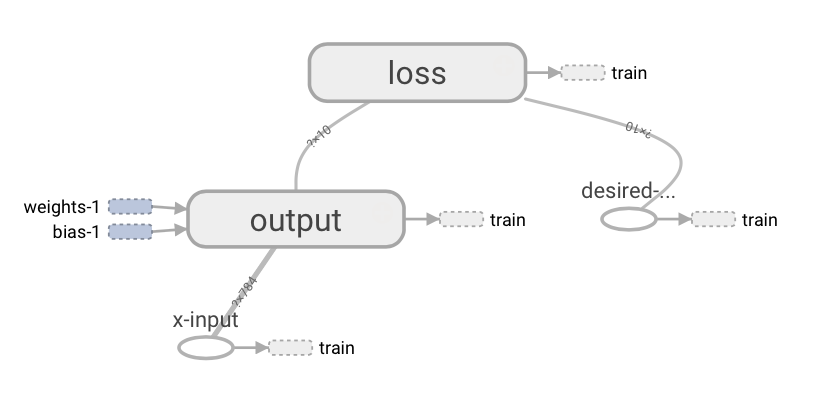
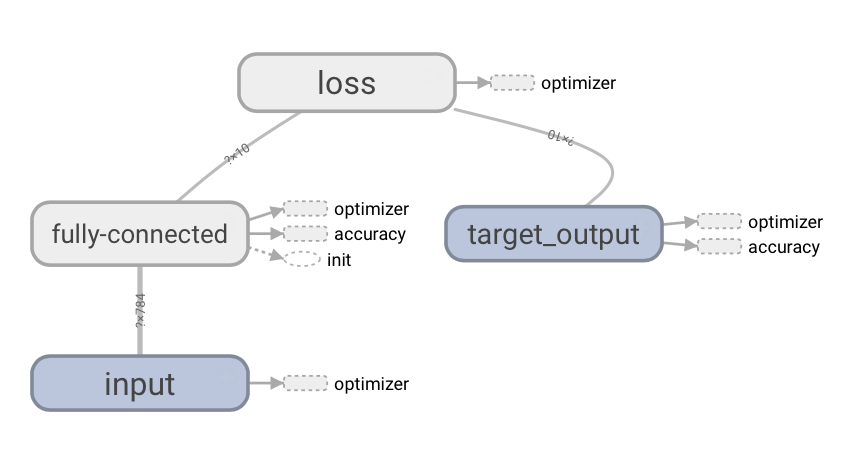
Update images and graph models

diff --git a/experiments/nn-gridworld/network.py b/experiments/nn-gridworld/network.py
@@ -1,42 +1,50 @@
-
 import tensorflow as tf
 
 class NeuralNetwork(object):
     def __init__(self, device, random_seed, input_size, hidden_l1, hidden_l2, learning_rate, optimizer):
-        self.sess = tf.InteractiveSession()
+        self.sess = tf.Session()
 
         with tf.device(device):
             # Set random seed
             tf.set_random_seed(random_seed)
 
             # Input with shape [?, input_size]
-            self.x = tf.placeholder(tf.float32, shape=[None, input_size], name='x-input')
+            with tf.name_scope('input') as scope:
+                self.x = tf.placeholder(tf.float32, shape=[None, input_size], name='x-input')
+
             # Target output with shape [?, 4]
-            self.y_ = tf.placeholder(tf.float32, shape=[None, 4], name='target-output')
+            with tf.name_scope('target_output') as scope:
+                self.y_ = tf.placeholder(tf.float32, shape=[None, 4], name='target-output')
 
-            # Hidden layer 1 weights and bias
-            W_1 = tf.Variable(tf.random_uniform([input_size, hidden_l1]), name='weights-1')
-            b_1 = tf.Variable(tf.zeros([hidden_l1]), name='bias-1')
-
-            # Hidden layer 1's output
+            # Hidden layer 1
             with tf.name_scope('hidden-layer-1') as scope:
-                out_1 = tf.nn.relu(tf.matmul(self.x, W_1) + b_1)
+                # Hidden layer 1 weights and bias
+                W_1 = tf.Variable(tf.random_uniform([input_size, hidden_l1]), name='weights-1')
+                b_1 = tf.Variable(tf.zeros([hidden_l1]), name='bias-1')
 
-            # Hidden layer 2 weights and bias 
-            W_2 = tf.Variable(tf.random_uniform([hidden_l1, hidden_l2]), name='weights-2')
-            b_2 = tf.Variable(tf.zeros([hidden_l2]), name='bias-2')
+                # Hidden layer 1's output
+                with tf.name_scope('hidden-layer-1-out') as scope:
+                    out_1 = tf.nn.relu(tf.matmul(self.x, W_1) + b_1)
 
-            # Hidden layer 2's output 
+            # Hidden layer 2
             with tf.name_scope('hidden-layer-2') as scope:
-                out_2 = tf.nn.relu(tf.matmul(out_1, W_2) + b_2)
+                # Hidden layer 2 weights and bias 
+                W_2 = tf.Variable(tf.random_uniform([hidden_l1, hidden_l2]), name='weights-2')
+                b_2 = tf.Variable(tf.zeros([hidden_l2]), name='bias-2')
 
-            # Hidden layer 3 weights and bias 
-            W_3 = tf.Variable(tf.random_uniform([hidden_l2, 4]), name='weights-3')
-            b_3 = tf.Variable(tf.zeros([4]), name='bias-3')
+                # Hidden layer 2's output 
+                with tf.name_scope('hidden-layer-2-out') as scope:
+                    out_2 = tf.nn.relu(tf.matmul(out_1, W_2) + b_2)
 
-            # Hidden layer 3's output 
+            # Ouptut layer
             with tf.name_scope('output') as scope:
-                self.y = tf.matmul(out_2, W_3) + b_3
+                # Ouptut layer weights and bias 
+                W_3 = tf.Variable(tf.random_uniform([hidden_l2, 4]), name='weights-3')
+                b_3 = tf.Variable(tf.zeros([4]), name='bias-3')
+
+                # Hidden layer 3's output 
+                with tf.name_scope('output_value') as scope:
+                    self.y = tf.matmul(out_2, W_3) + b_3
 
             # Objective function 
             with tf.name_scope('loss') as scope:
@@ -83,4 +91,4 @@ class NeuralNetwork(object):
     def get_accuracy(self, x_input, target_output):
         acc = self.sess.run(self.accuracy, feed_dict={self.x: x_input, 
                                                     self.y_: target_output})
-return acc
+        return acc

diff --git a/experiments/rnn-gridworld/network.py b/experiments/rnn-gridworld/network.py
@@ -9,13 +9,12 @@ class RecurrentNeuralNetwork(object):
             tf.set_random_seed(random_seed)
 
             # Input with shape 
-            self.x = tf.placeholder(tf.float32, shape=[sequence_length, None, input_size], name='x-input')
-            # Desired output
-            self.y_ = tf.placeholder(tf.float32, shape=[None, 4], name='target-output')
+            with tf.name_scope('input') as scope:
+                self.x = tf.placeholder(tf.float32, shape=[sequence_length, None, input_size], name='x-input')
 
-            # Weights and bias
-            W = tf.Variable(tf.random_uniform([hidden, 4]), name='weights')
-            b = tf.Variable(tf.random_uniform([4]), name='bias')
+            # Target output
+            with tf.name_scope('target_output') as scope:
+                self.y_ = tf.placeholder(tf.float32, shape=[None, 4], name='target-output')
 
             with tf.name_scope('pre-process'):
                 # Reshape input from [3, ?, input_size]
@@ -23,12 +22,21 @@ class RecurrentNeuralNetwork(object):
                 # Split input to shape [3, [?, input_size]]
                 x_2 = tf.split(0, sequence_length, x_1)
 
-            # Set up basic LSTM cell with forget_bias = 1
-            lstm_cell = tf.nn.rnn_cell.BasicLSTMCell(hidden, forget_bias=1.0, state_is_tuple=True)
-            lstm_cell = tf.nn.rnn_cell.MultiRNNCell([lstm_cell] * rnn_layers, state_is_tuple=True)
+            # RNN
+            with tf.name_scope('RNN') as scope:
+                # Weights and bias
+                W = tf.Variable(tf.random_uniform([hidden, 4]), name='weights')
+                b = tf.Variable(tf.random_uniform([4]), name='bias')
 
-            # Get outputs of RNN layer
-            outputs, state = tf.nn.rnn(lstm_cell, x_2, dtype=tf.float32)
+                # LSTM Cell
+                with tf.name_scope('LSTM_cell') as scope:
+                    # Set up basic LSTM cell with forget_bias = 1
+                    lstm_cell = tf.nn.rnn_cell.BasicLSTMCell(hidden, forget_bias=1.0, state_is_tuple=True)
+                    lstm_cell = tf.nn.rnn_cell.MultiRNNCell([lstm_cell] * rnn_layers, state_is_tuple=True)
+
+                    # Get outputs of LSTM layer
+                    with tf.name_scope('LSTM-out'):
+                        outputs, state = tf.nn.rnn(lstm_cell, x_2, dtype=tf.float32)
 
             with tf.name_scope('output') as scope:
                 self.y = tf.matmul(outputs[-1], W) + b
@@ -37,7 +45,7 @@ class RecurrentNeuralNetwork(object):
             with tf.name_scope('loss') as scope:
                 self.obj_function = tf.sqrt(tf.reduce_mean(tf.square(tf.sub(self.y_, self.y))))
 
-            with tf.name_scope('train') as scope:
+            with tf.name_scope('optimizer') as scope:
                 if optimizer.lower() == 'adam':
                     # Adam Optimizer
                     self.train_step = tf.train.AdamOptimizer(learning_rate).minimize(self.obj_function)

diff --git a/experiments/deep-mnist/network.py b/experiments/deep-mnist/network.py
@@ -38,18 +38,23 @@ class ConvolutionalNeuralNetwork(object):
             tf.set_random_seed(random_seed)
 
             # Input
-            self.x = tf.placeholder(tf.float32, shape=[None, 784], name='x-input')
-            # reshape to 28x28
-            x_img = tf.reshape(self.x, [-1,28,28,1])
-            # Target output of one value
-            self.y_ = tf.placeholder(tf.float32, shape=[None, 10], name='target-output')
+            with tf.name_scope('input') as scope:
+                self.x = tf.placeholder(tf.float32, shape=[None, 784], name='x-input')
+                with tf.name_scope('pre-process') as scope:
+                    # reshape to 28x28
+                    x_img = tf.reshape(self.x, [-1,28,28,1])
 
-            # Convolutional layer 1 weights and bias
-            with tf.name_scope('conv1') as scope
+            # Target output of one value
+            with tf.name_scope('target_output') as scope:
+                self.y_ = tf.placeholder(tf.float32, shape=[None, 10], name='target-output')
+
+            # Convolutional layer 1
+            with tf.name_scope('conv1') as scope:
+                # Convolutional layer 1 weights and bias
                 W_conv1 = self.weight_variable([5, 5, 1, 32], name='w-conv1')
                 b_conv1 = self.bias_variable([32], name='b-conv1')
 
-                # First conv layer output
+                # Layer output
                 with tf.name_scope('conv1-out') as scope:
                     h_conv1 = tf.nn.relu(self.conv2d(x_img, W_conv1) + b_conv1)
 
@@ -57,12 +62,13 @@ class ConvolutionalNeuralNetwork(object):
             with tf.name_scope('max-pool1') as scope:
                 h_pool1 = self.max_pool_2x2(h_conv1)
 
-            # Second layer conv weights and biases
-            with tf.name_scope('conv2') as scope
+            # Second layer convolution
+            with tf.name_scope('conv2') as scope:
+                # Second layer conv weights and biases
                 W_conv2 = self.weight_variable([5, 5, 32, 64], name='w-conv2')
                 b_conv2 = self.bias_variable([64], name='b-conv2')
 
-                # Second layer conv output
+                # Layer output
                 with tf.name_scope('conv2-out') as scope:
                     h_conv2 = tf.nn.relu(self.conv2d(h_pool1, W_conv2) + b_conv2)
 

diff --git a/experiments/mnist/network.py b/experiments/mnist/network.py
@@ -2,31 +2,36 @@ import tensorflow as tf
 
 class NeuralNetwork(object):
     def __init__(self, device, random_seed, learning_rate, optimizer):
-        self.sess = tf.InteractiveSession()
+        self.sess = tf.Session()
 
         with tf.device(device):
             # Set random seed
             tf.set_random_seed(random_seed)
 
             # Input with shape [?, 784]
-            self.x = tf.placeholder(tf.float32, shape=[None, 784], name='x-input')
+            with tf.name_scope('input') as scope:
+                self.x = tf.placeholder(tf.float32, shape=[None, 784], name='x-input')
+
             # Target output with shape [?, 10]
-            self.y_ = tf.placeholder(tf.float32, shape=[None, 10], name='target-output')
+            with tf.name_scope('target_output') as scope:
+                self.y_ = tf.placeholder(tf.float32, shape=[None, 10], name='target-output')
 
-            # Hidden layer 1 weights and bias
-            W = tf.Variable(tf.truncated_normal([784, 10]), name='weights-1')
-            b = tf.Variable(tf.zeros([10]), name='bias-1')
+            # Hidden layer 1
+            with tf.name_scope('fully-connected') as scope:
+                # Hidden layer 1 weights and bias
+                W = tf.Variable(tf.truncated_normal([784, 10]), name='weights-1')
+                b = tf.Variable(tf.zeros([10]), name='bias-1')
 
-            # Output with shape [?, 10]
-            with tf.name_scope('output') as scope:
-                self.y = tf.nn.softmax(tf.matmul(self.x, W) + b)
+                # Output with shape [?, 10]
+                with tf.name_scope('fully-connected-out') as scope:
+                    self.y = tf.nn.softmax(tf.matmul(self.x, W) + b)
 
             # Objective function - Cross Entropy
             # E = - SUM(y_ * log(y))
             with tf.name_scope('loss') as scope:
                 self.obj_function = tf.reduce_mean(-tf.reduce_sum(self.y_ * tf.log(self.y), reduction_indices=[1]))
 
-            with tf.name_scope('train') as scope:
+            with tf.name_scope('optimizer') as scope:
                 if optimizer.lower() == 'adam':
                     # Adam Optimizer
                     self.train_step = tf.train.AdamOptimizer(learning_rate).minimize(self.obj_function)

diff --git a/experiments/nn-gridworld/nn-gridworld.py b/experiments/nn-gridworld/nn-gridworld.py
@@ -52,13 +52,14 @@ else:
 
 input_size = 3 * settings.field_size * settings.field_size
 
-# Set target Convolutional Neural Network
-target_network = ConvolutionalNeuralNetwork(device, 
-                                settings.random_seed, 
-                                settings.hidden_l1, 
-                                settings.hidden_l2, 
-                                settings.learning_rate, 
-                                settings.optimizer)
+# Set Neural Network
+nn_network = NeuralNetwork(device, 
+                        settings.random_seed, 
+                        input_size,
+                        settings.hidden_l1, 
+                        settings.hidden_l2, 
+                        settings.learning_rate, 
+                        settings.optimizer)
 
 # Statistics summary writer
 summary_dir = '../../logs/nn-gridworld-fieldsize{}-episodes{}-hidden1_{}-hidden2_{}-lr{}-{}/'.format(settings.field_size,

diff --git a/experiments/nn-gridworld/README.md b/experiments/nn-gridworld/README.md
@@ -1,6 +1,6 @@
 # NN-Gridworld Experiment
 <p align="center">
-  <img src="../../images/graphs/nn-graph.png", width="50%"/>
+  <img src="../../images/graphs/nn-gridworld-graph.png", width="50%"/>
 </p>
 
 In comparison to the [Q-Gridworld](../q-gridworld) experiment, we're now going train an agent to play [Gridworld](../games/gridworld.py) by utilizing a **Neural Network** (NN) instead of storing all Q-values in a table. By sending the state of the game as an input, the network will be trained to estimate the Q-values of that state.

diff --git a/experiments/rnn-gridworld/README.md b/experiments/rnn-gridworld/README.md
@@ -1,7 +1,7 @@
 # RNN-Gridworld Experiment
 
 <p align="center">
-  <img src="../../images/graphs/rnn-graph.png", width="50%"/>
+  <img src="../../images/graphs/rnn-gridworld-graph.png", width="50%"/>
 </p>
 
 We managed to improve the performance of [Q-Gridworld](../q-gridworld) by extending it using a [Neural Network](../nn-gridworld) to estimate the Q-values instead of storing them in a table. What is the step if we want to further improve its performance?
